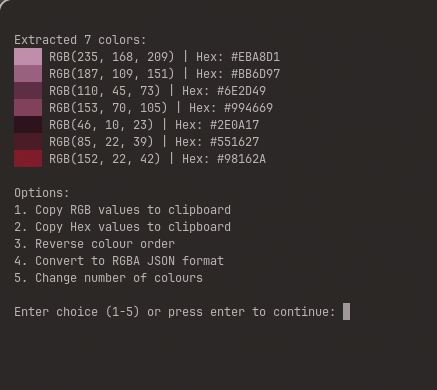
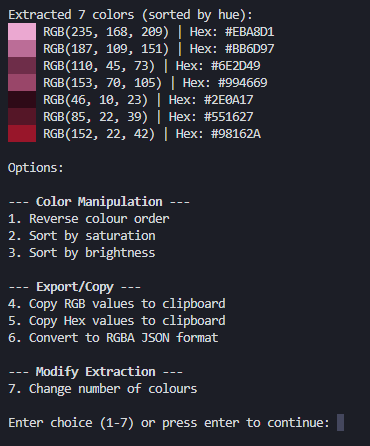
Enhance README and main.py: add flexible color sorting options and update usage instructions. Also reordered options and added section labels

Changed region(s): [[0.0, 0.0, 0.8027, 0.8923], [0.0, 0.9231, 0.9514, 0.9846]]

diff --git a/main.py b/main.py
@@ -30,6 +30,24 @@ def rgb_to_hue(color):
     h = colorsys.rgb_to_hsv(r, g, b)[0]
     return h
 
+# Function to covert RGB to saturation value for sorting
+def rgb_to_saturation(color):
+    r, g, b = color
+    # Normalize RGB values to 0-1 range (colorsys expects this)
+    r, g, b = r / 255.0, g / 255.0, b / 255.0
+    # Convert to HSV and extract saturation (s is between 0-1)
+    s = colorsys.rgb_to_hsv(r, g, b)[1]
+    return s
+
+# Function to convert RGB to brightness value for sorting
+def rgb_to_brightness(color):
+    r, g, b = color
+    # Normalize RGB values to 0-1 range (colorsys expects this)
+    r, g, b = r / 255.0, g / 255.0, b / 255.0
+    # Convert to HSV and extract value/brightness (v is between 0-1)
+    v = colorsys.rgb_to_hsv(r, g, b)[2]
+    return v
+
 # Function to convert RGB to Hex
 def rgb_to_hex(colors):
     hex_colors = []
@@ -54,14 +72,12 @@ def display_image_in_terminal(img):
     else:
         print("climage module not available. Install climage with: pip install climage")
 
-# Function to generate clusters - currently sorting colors in this function, might move outside later
+# Function to generate clusters
 def get_clusters(pixels, num_colors):
     # Perform KMeans clustering to reduce the number of colors
     kmeans = KMeans(n_clusters=num_colors, random_state=42).fit(pixels)
     # Get the cluster centers (the representative colors) as integers (normally returns floats)
     colors = kmeans.cluster_centers_.astype(int)
-    # Sort colors by hue to create rainbow order
-    colors = sorted(colors, key=rgb_to_hue)
     return colors
 
 # Main app loop
@@ -140,24 +156,83 @@ while True:
     # Get the clustered colors
     colors = get_clusters(pixels, num_colors)
     # Clear the terminal before printing the extracted colors and their values
+    current_sort = "hue" # Track current sort method
+    colors = sorted(colors, key=rgb_to_hue)
     os.system('cls' if os.name == 'nt' else 'clear')
 
     # Main interaction loop
     while True:
-        print(f"\nExtracted {num_colors} colors:")
+        print(f"\nExtracted {num_colors} colors (sorted by {current_sort}):")
         hex_colors = rgb_to_hex(colors)
         for i, color in enumerate(colors):
             r, g, b = color
+            h = rgb_to_hue(color)
+            s = rgb_to_saturation(color)
+            v = rgb_to_brightness(color)
             print(f"\033[48;2;{r};{g};{b}m    \033[0m RGB({r}, {g}, {b}) | Hex: {hex_colors[i]}")
+            # Optional: print HSV values for debugging
+            # print(f"\033[48;2;{r};{g};{b}m    \033[0m RGB({r}, {g}, {b}) | Hex: {hex_colors[i]} | H:{h:.2f} S:{s:.2f} V:{v:.2f}")
         
         # Provide options to copy values to clipboard or reverse order
         try:
+            # Dynamically adjust options based on current sort method
+            if current_sort == "hue":
+                option2_text = "2. Sort by saturation"
+                option3_text = "3. Sort by brightness"
+            elif current_sort == "saturation":
+                option2_text = "2. Sort by hue"
+                option3_text = "3. Sort by brightness"
+            elif current_sort == "brightness":
+                option2_text = "2. Sort by saturation"
+                option3_text = "3. Sort by hue"
+
             # Dynamically adjust options based on pyperclip availability
-            option1_text = "1. Copy RGB values to clipboard" if PYPERCLIP_AVAILABLE else "1. Copy RGB values to clipboard \033[91m(not active)\033[0m"  # Red
-            option2_text = "2. Copy Hex values to clipboard" if PYPERCLIP_AVAILABLE else "2. Copy Hex values to clipboard \033[91m(not active)\033[0m"  # Red
-            options = input(f"\nOptions: \n{option1_text} \n{option2_text} \n3. Reverse colour order \n4. Convert to RGBA JSON format \n5. Change number of colours \n\nEnter choice (1-5) or press enter to continue: ")
+            option4_text = "4. Copy RGB values to clipboard" if PYPERCLIP_AVAILABLE else "4. Copy RGB values to clipboard \033[91m(not active)\033[0m"  # Red
+            option5_text = "5. Copy Hex values to clipboard" if PYPERCLIP_AVAILABLE else "5. Copy Hex values to clipboard \033[91m(not active)\033[0m"  # Red
+
+            options = input(f"\nOptions: \n\n\033[1m--- Color Manipulation ---\033[0m\n1. Reverse colour order \n{option2_text} \n{option3_text} \n\n\033[1m--- Export/Copy ---\033[0m\n{option4_text} \n{option5_text} \n6. Convert to RGBA JSON format \n\n\033[1m--- Modify Extraction ---\033[0m\n7. Change number of colours \n\nEnter choice (1-7) or press enter to continue: ")
             
             if options == '1':
+                #* Reverse color order
+                # Clear the console
+                os.system('cls' if os.name == 'nt' else 'clear')
+                colors = colors[::-1]
+                print("\033[92m\nColor order reversed.\033[0m")  # Green
+                continue
+            
+            elif options == '2':
+                #* Sort by first alternative method
+                if current_sort == "hue":
+                    colors = sorted(colors, key=rgb_to_saturation)
+                    current_sort = "saturation"
+                elif current_sort == "saturation":
+                    colors = sorted(colors, key=rgb_to_hue)
+                    current_sort = "hue"
+                elif current_sort == "brightness":
+                    colors = sorted(colors, key=rgb_to_saturation)
+                    current_sort = "saturation"
+                # Clear the console
+                os.system('cls' if os.name == 'nt' else 'clear')
+                print(f"\033[92m\nColors sorted by {current_sort}.\033[0m")  # Green
+                continue
+            
+            elif options == '3':
+                #* Sort by second alternative method
+                if current_sort == "hue":
+                    colors = sorted(colors, key=rgb_to_brightness)
+                    current_sort = "brightness"
+                elif current_sort == "saturation":
+                    colors = sorted(colors, key=rgb_to_brightness)
+                    current_sort = "brightness"
+                elif current_sort == "brightness":
+                    colors = sorted(colors, key=rgb_to_hue)
+                    current_sort = "hue"
+                # Clear the console
+                os.system('cls' if os.name == 'nt' else 'clear')
+                print(f"\033[92m\nColors sorted by {current_sort}.\033[0m")  # Green
+                continue
+            
+            elif options == '4':
                 #* Copy RGB values to clipboard
                 # Error message if pyperclip not installed
                 if not PYPERCLIP_AVAILABLE:
@@ -177,7 +252,7 @@ while True:
                     print(f"\033[91mFailed to copy RGB values to clipboard: {e}\033[0m")  # Red
                 continue
             
-            elif options == '2':
+            elif options == '5':
                 #* Copy Hex values to clipboard
                 # Error message if pyperclip not installed
                 if not PYPERCLIP_AVAILABLE:
@@ -188,22 +263,13 @@ while True:
                 # Clear the console
                 os.system('cls' if os.name == 'nt' else 'clear')
                 try:
-                    hex_colors = rgb_to_hex(colors)   # We already have this but re-calculate in case colors were modified
                     pyperclip.copy(", ".join(hex_colors))
                     print("\033[92m\nHex values copied to clipboard.\033[0m")  # Green
                 except Exception as e:
                     print(f"\033[91mFailed to copy Hex values to clipboard: {e}\033[0m")  # Red
                 continue
-            
-            elif options == '3':
-                #* Reverse color order
-                # Clear the console
-                os.system('cls' if os.name == 'nt' else 'clear')
-                colors = colors[::-1]
-                print("\033[92m\nColor order reversed.\033[0m")  # Green
-                continue
-            
-            elif options == '4':
+
+            elif options == "6":
                 #* Convert to RGBA JSON format
                 while True:
                     try:
@@ -225,12 +291,12 @@ while True:
                 print(json.dumps(colors_list, indent=2))
                 print("\033[0m")  # Reset color
                 continue
-            
-            elif options == '5':
+
+            elif options == "7":
                 #* Change number of colors
                 while True:
                     try:
-                        num_colors = int(input("\nEnter new number of colors to extract from the image to (1-20): "))
+                        num_colors = int(input("\nEnter new number of colors to extract from the image (1-20): "))
                         if num_colors < 1 or num_colors > 20:
                             print("Please enter a number between 1 and 20.")
                             continue
@@ -244,6 +310,13 @@ while True:
                 os.system('cls' if os.name == 'nt' else 'clear')
                 # Regenerate colors with new number
                 colors = get_clusters(pixels, num_colors)
+                # Re-apply current sort method
+                if current_sort == "hue":
+                    colors = sorted(colors, key=rgb_to_hue)
+                elif current_sort == "saturation":
+                    colors = sorted(colors, key=rgb_to_saturation)
+                elif current_sort == "brightness":
+                    colors = sorted(colors, key=rgb_to_brightness)
                 print("\033[92m\nNumber of colors updated.\033[0m")  # Green
                 continue
             
@@ -253,7 +326,7 @@ while True:
             else:
                 # Clear the console
                 os.system('cls' if os.name == 'nt' else 'clear')
-                print("Invalid choice. Please enter 1, 2, 3, 4, 5, or press enter to skip.")
+                print("Invalid choice. Please enter 1, 2, 3, 4, 5, 6, 7 or press enter to skip.")
         except KeyboardInterrupt:
             print("\nProcess interrupted by user. Exiting.")
             exit(0)

diff --git a/README.md b/README.md
@@ -8,7 +8,7 @@ A command-line tool that extracts dominant color palettes from images using mach
 
 ## What it does
 
-This tool analyzes any image (local file or URL) and extracts its most dominant colors using K-means clustering. The colors are automatically sorted in rainbow order by hue, making it easy to create harmonious color schemes. You can export colors in multiple formats: RGB, Hex, or RGBA with custom opacity.
+This tool analyzes any image (local file or URL) and extracts its most dominant colors using K-means clustering. The colors can be sorted by hue (rainbow order), saturation, or brightness, making it easy to create harmonious color schemes that suit your needs. You can export colors in multiple formats: RGB, Hex, or RGBA with custom opacity.
 
 ## Demo
 
@@ -23,7 +23,7 @@ This tool analyzes any image (local file or URL) and extracts its most dominant 
 ## Features
 
 - 🎨 **Extract 1-20 dominant colors** from any image
-- 🌈 **Automatic rainbow sorting** - colors are ordered by hue for natural flow
+- 🌈 **Flexible color sorting** - sort by hue (rainbow order), saturation, or brightness
 - 📋 **Multiple export formats**:
   - RGB values: `(224, 153, 195), (158, 79, 116), ...`
   - Hex codes: `#E099C3, #9E4F74, ...`
@@ -65,11 +65,12 @@ python main.py
 The tool will guide you through:
 1. Enter an image path or URL
 2. Choose how many colors to extract (1-20)
-3. View your color palette
+3. View your color palette (sorted by hue by default)
 4. Choose what to do:
+   - Reverse the color order
+   - Sort by hue, saturation, or brightness
    - Copy RGB values to clipboard
    - Copy Hex values to clipboard
-   - Reverse the color order
    - Convert to RGBA JSON format (with custom opacity)
    - Change the number of colors
 
